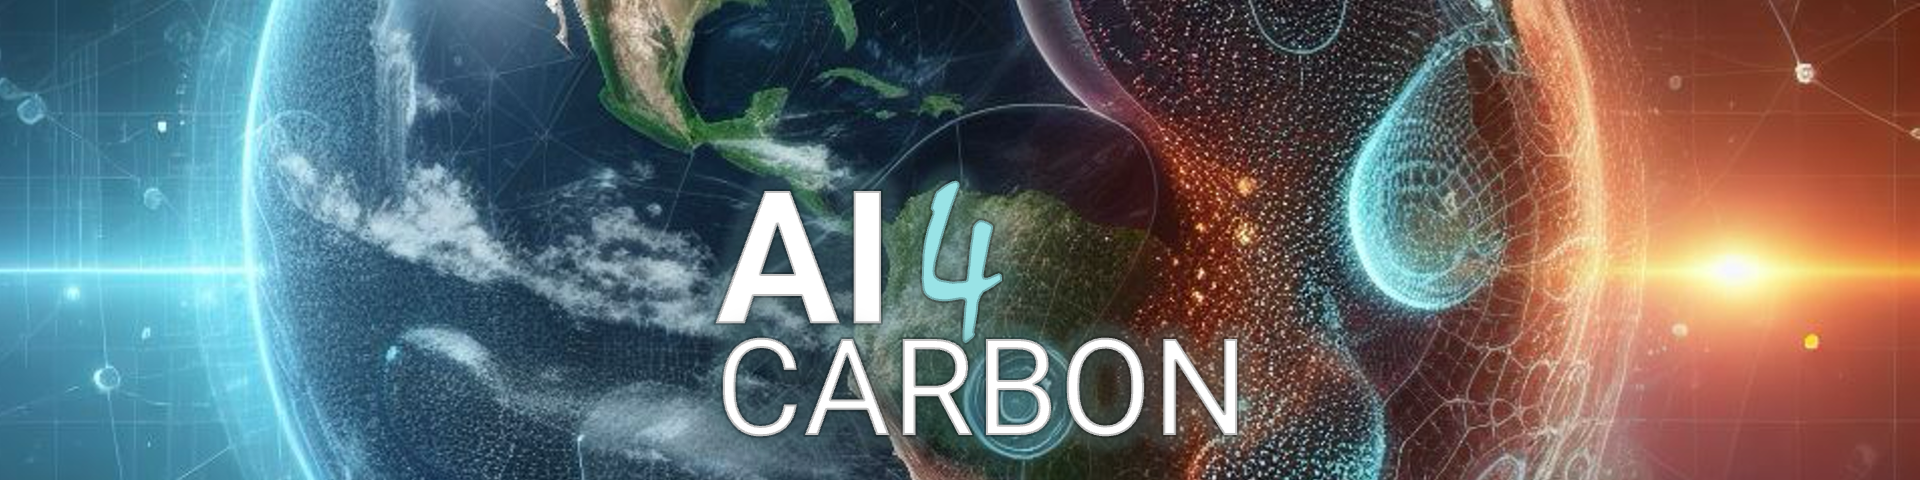
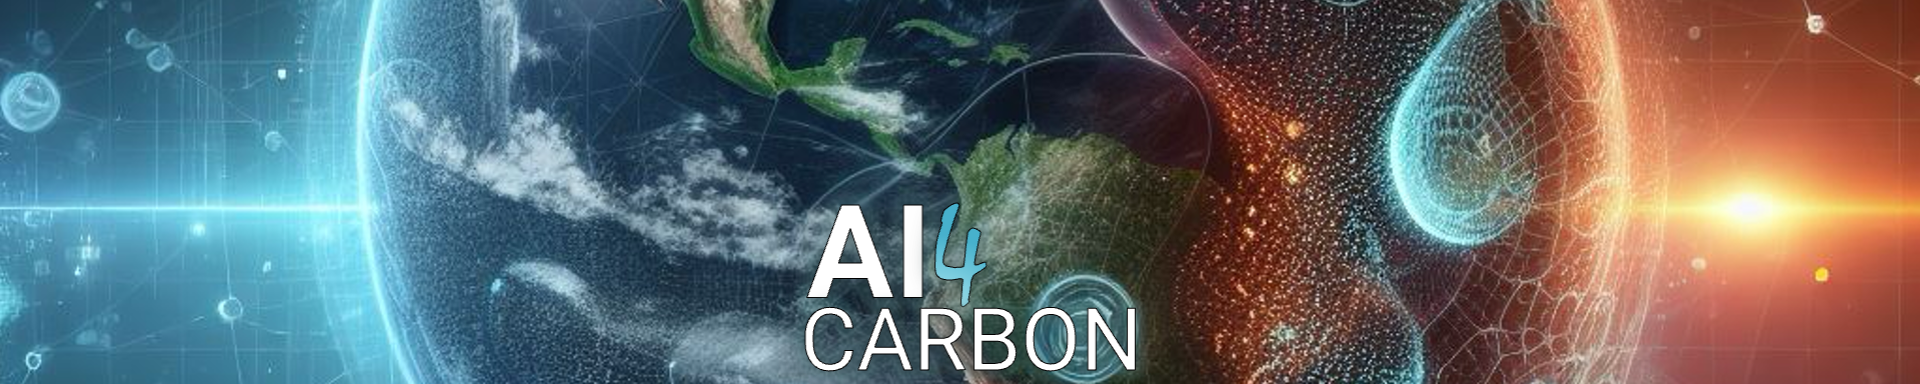
yey

diff --git a/_sass/_themes.scss b/_sass/_themes.scss
@@ -99,5 +99,5 @@ html[data-theme="dark"] {
   background-position: center bottom;
   height: 15em;
   margin-bottom: 2em;
-  margin-top: 0em;  
+  margin-top: -3.6em;  
 }

diff --git a/_news/20240301_acceptance_icdc11.md b/_news/20240301_acceptance_icdc11.md
@@ -5,4 +5,4 @@ inline: true
 related_posts: false
 ---
 
-:tada: Our side event has been provisionally accepted for [ICDC 11](https://icdc11.com)!
+:tada: Our side event has been provisionally accepted for [ICDC 11](https://www.icdc11.com)!
